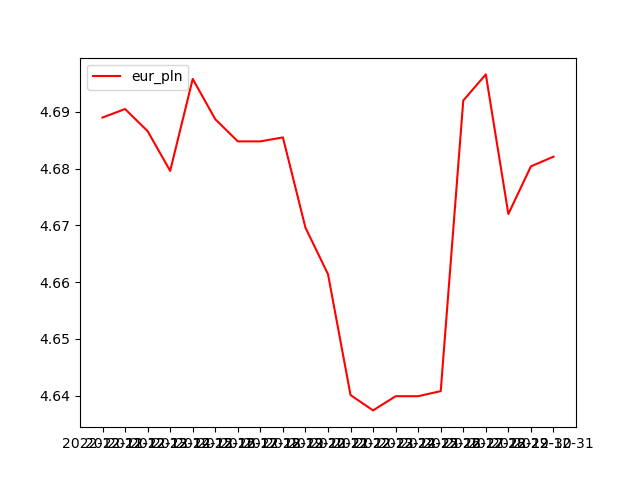
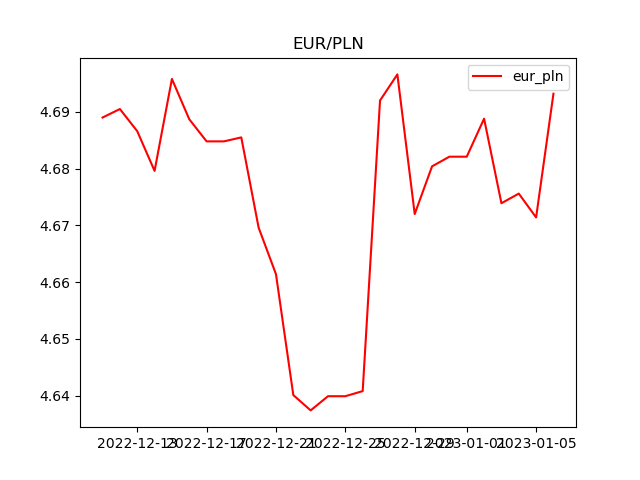
new data

diff --git a/style/style.min.css b/style/style.min.css
@@ -1,1 +1,1 @@
-@font-face{font-family:'Quilon Regular';src:url("./Quilon-Regular.woff") format("woff")}*{margin:0;padding:0;box-sizing:border-box;font-family:'Quilon Regular', Georgia, 'Times New Roman', Times, serif}body{background-color:#7B8485}body .info{width:100%;padding:20px 40px}body .info h1{text-align:center;font-size:22px;line-height:22px;color:#EFF2E8}body .statistic-page{padding:20px 40px;height:100%;width:100%;display:flex;flex-direction:column;background-color:#7B8485}body .statistic-page .row.title-checkbox{opacity:.3;padding:30px 0}body .statistic-page .row.title-checkbox h2{font-size:20px;color:#EFF2E8}body .statistic-page .row.title-radio form{display:flex;flex-direction:column}body .statistic-page .row.charts{height:100%}body .statistic-page .row.charts .chart-wrapper{max-height:0;overflow:hidden;transition:all 0.5s ease-in-out;text-align:center}body .statistic-page .row.charts .chart-wrapper img{height:100%;width:100%}body .credits{position:fixed;left:0;bottom:0;width:100%;padding:20px 40px;text-align:right;color:#F4F0F1;background-color:#7B8485}@keyframes loaded{0%{width:0%;border-radius:0 30px 30px 0}25%{width:25%;border-radius:0 30px 30px 0}50%{width:50%;border-radius:0 30px 30px 0}75%{width:75%;border-radius:0 30px 30px 0}100%{width:100%;border-radius:0}}.chart-group{background-color:#F4F0F1;display:block;margin:10px 0;position:relative}.chart-group .title-label{padding:12px 30px;width:100%;display:block;text-align:left;color:#25242A;cursor:pointer;position:relative;z-index:2;overflow:hidden}.chart-group .title-label:before{content:"";position:absolute;top:0;left:0;right:auto;bottom:0;opacity:0;z-index:-1}.chart-group input:checked ~ label{color:#F4F0F1}.chart-group input:checked ~ label:before{right:0;width:100%;height:100%;background-color:#AC6276;opacity:1;animation:loaded .5s linear}.chart-group input{width:32px;height:32px;order:1;z-index:2;position:absolute;right:30px;top:50%;transform:translateY(-50%);cursor:pointer;visibility:hidden}@media (max-width: 640px){.chart-group{margin:5px 0}.chart-group .title-label{padding:6px 15px}}
+@font-face{font-family:'Quilon Regular';src:url("./Quilon-Regular.woff") format("woff")}*{margin:0;padding:0;box-sizing:border-box;font-family:'Quilon Regular', Georgia, 'Times New Roman', Times, serif}body{background-color:#7B8485}body .info{width:100%;padding:20px 40px}body .info h1{text-align:center;font-size:22px;line-height:22px;color:#EFF2E8}body .statistic-page{padding:20px 40px;height:100%;width:100%;display:flex;flex-direction:column;background-color:#7B8485}body .statistic-page .row.title-checkbox{opacity:.3;padding:30px 0}body .statistic-page .row.title-checkbox h2{font-size:20px;color:#EFF2E8}body .statistic-page .row.title-radio form{display:flex;flex-direction:column}body .statistic-page .row.charts .chart-wrapper{max-height:0;overflow:hidden;transition:all 0.5s ease-in-out;text-align:center}body .statistic-page .row.charts .chart-wrapper img{height:100%;width:100%}body .credits{position:fixed;z-index:5;left:0;bottom:0;width:100%;padding:20px 40px;text-align:right;color:#F4F0F1;background-color:#7B8485}body div.credits-box{position:relative;margin-top:60px}@keyframes loaded{0%{width:0%;border-radius:0 30px 30px 0}25%{width:25%;border-radius:0 30px 30px 0}50%{width:50%;border-radius:0 30px 30px 0}75%{width:75%;border-radius:0 30px 30px 0}100%{width:100%;border-radius:0}}.chart-group{background-color:#F4F0F1;display:block;margin:10px 0;position:relative}.chart-group .title-label{padding:12px 30px;width:100%;display:block;text-align:left;color:#25242A;cursor:pointer;position:relative;z-index:2;overflow:hidden}.chart-group .title-label:before{content:"";position:absolute;top:0;left:0;right:auto;bottom:0;opacity:0;z-index:-1}.chart-group input:checked ~ label{color:#F4F0F1}.chart-group input:checked ~ label:before{right:0;width:100%;height:100%;background-color:#AC6276;opacity:1;animation:loaded .5s linear}.chart-group input{width:32px;height:32px;order:1;z-index:2;position:absolute;right:30px;top:50%;transform:translateY(-50%);cursor:pointer;visibility:hidden}@media (max-width: 640px){.chart-group{margin:5px 0}.chart-group .title-label{padding:6px 15px}}

diff --git a/style/main-style.min.css b/style/main-style.min.css
@@ -1,1 +1,1 @@
-@font-face{font-family:'Quilon Regular';src:url("./Quilon-Regular.woff") format("woff")}*{margin:0;padding:0;box-sizing:border-box;font-family:'Quilon Regular', Georgia, 'Times New Roman', Times, serif}body{background-color:#7B8485}body .info{width:100%;padding:20px 40px}body .info h1{text-align:center;font-size:22px;line-height:22px;color:#EFF2E8}body .statistic-page{padding:20px 40px;height:100%;width:100%;display:flex;flex-direction:column;background-color:#7B8485}body .statistic-page .row.title-checkbox{opacity:.3;padding:30px 0}body .statistic-page .row.title-checkbox h2{font-size:20px;color:#EFF2E8}body .statistic-page .row.title-radio form{display:flex;flex-direction:column}body .statistic-page .row.charts{height:100%}body .statistic-page .row.charts .chart-wrapper{max-height:0;overflow:hidden;transition:all 0.5s ease-in-out;text-align:center}body .statistic-page .row.charts .chart-wrapper img{height:100%;width:100%}body .credits{position:fixed;left:0;bottom:0;width:100%;padding:20px 40px;text-align:right;color:#F4F0F1;background-color:#7B8485}
+@font-face{font-family:'Quilon Regular';src:url("./Quilon-Regular.woff") format("woff")}*{margin:0;padding:0;box-sizing:border-box;font-family:'Quilon Regular', Georgia, 'Times New Roman', Times, serif}body{background-color:#7B8485}body .info{width:100%;padding:20px 40px}body .info h1{text-align:center;font-size:22px;line-height:22px;color:#EFF2E8}body .statistic-page{padding:20px 40px;height:100%;width:100%;display:flex;flex-direction:column;background-color:#7B8485}body .statistic-page .row.title-checkbox{opacity:.3;padding:30px 0}body .statistic-page .row.title-checkbox h2{font-size:20px;color:#EFF2E8}body .statistic-page .row.title-radio form{display:flex;flex-direction:column}body .statistic-page .row.charts .chart-wrapper{max-height:0;overflow:hidden;transition:all 0.5s ease-in-out;text-align:center}body .statistic-page .row.charts .chart-wrapper img{height:100%;width:100%}body .credits{position:fixed;z-index:5;left:0;bottom:0;width:100%;padding:20px 40px;text-align:right;color:#F4F0F1;background-color:#7B8485}body div.credits-box{position:relative;margin-top:60px}

diff --git a/style/main-style.scss b/style/main-style.scss
@@ -52,11 +52,10 @@ body {
             form {
               display: flex;
               flex-direction: column;
-              // import radio-animation
               }
             }
           &.charts {
-            height: 100%;
+            // height: 100%;
             // max-height: 0;
             .chart-wrapper {
               max-height: 0;
@@ -74,6 +73,7 @@ body {
     }
     .credits{
       position: fixed;
+      z-index: 5;
       left: 0;
       bottom: 0;
       width: 100%;
@@ -81,5 +81,9 @@ body {
       text-align: right;
       color: $paragraph;
       background-color: $main-bg-color;
+    }
+    div.credits-box{
+        position: relative;
+        margin-top: 60px;
     }
 }

diff --git a/style/style.css b/style/style.css
@@ -51,10 +51,6 @@ body .statistic-page .row.title-radio form {
   flex-direction: column;
 }
 
-body .statistic-page .row.charts {
-  height: 100%;
-}
-
 body .statistic-page .row.charts .chart-wrapper {
   max-height: 0;
   overflow: hidden;
@@ -69,6 +65,7 @@ body .statistic-page .row.charts .chart-wrapper img {
 
 body .credits {
   position: fixed;
+  z-index: 5;
   left: 0;
   bottom: 0;
   width: 100%;
@@ -76,6 +73,11 @@ body .credits {
   text-align: right;
   color: #F4F0F1;
   background-color: #7B8485;
+}
+
+body div.credits-box {
+  position: relative;
+  margin-top: 60px;
 }
 
 /* variables */

diff --git a/style/main-style.css b/style/main-style.css
@@ -51,10 +51,6 @@ body .statistic-page .row.title-radio form {
   flex-direction: column;
 }
 
-body .statistic-page .row.charts {
-  height: 100%;
-}
-
 body .statistic-page .row.charts .chart-wrapper {
   max-height: 0;
   overflow: hidden;
@@ -69,6 +65,7 @@ body .statistic-page .row.charts .chart-wrapper img {
 
 body .credits {
   position: fixed;
+  z-index: 5;
   left: 0;
   bottom: 0;
   width: 100%;
@@ -76,4 +73,9 @@ body .credits {
   text-align: right;
   color: #F4F0F1;
   background-color: #7B8485;
+}
+
+body div.credits-box {
+  position: relative;
+  margin-top: 60px;
 }

diff --git a/js/script.js b/js/script.js
@@ -3,7 +3,7 @@ const usd_pln = document.querySelector('.statistic-page .title-radio input#usd_p
 const eur_usd = document.querySelector('.statistic-page .title-radio input#eur_usd')
 
 
-document.querySelector('main').style.height = document.querySelector('.statistic-page .charts .eur_pln img').scrollHeight + 'px'
+// document.querySelector('main').style.height = document.querySelector('.statistic-page .charts .eur_pln img').scrollHeight + 'px'
 
 document.querySelectorAll('.statistic-page .title-radio input').forEach(radio => {
     radio.addEventListener('click', () => {

diff --git a/index.html b/index.html
@@ -50,6 +50,7 @@
                 </section>
         </article>
     </main>
+    <div class="credits-box"></div>
     <footer class="credits">
         Gabriela Godek, ZIISS1-1113
     </footer>

diff --git a/style/style.scss b/style/style.scss
@@ -5,7 +5,7 @@
 
 @media (max-width: 640px){
     .chart-group {
-        margin: 5px 0;;
+        margin: 5px 0;
         .title-label{
             padding: 6px 15px;
         }

diff --git a/test-cron/het_users.py b/test-cron/het_users.py
@@ -1,0 +1,36 @@
+import os
+import json
+import requests
+import pandas as pd
+from datetime import datetime
+
+
+def fetch(url: str) -> list:
+    res = requests.get(url)
+    return json.loads(res.content)
+
+
+def process(users: list) -> pd.DataFrame:
+    processed = []
+    for user in users:
+        processed.append({
+            'ID': user['id'],
+            'Name': user['name'],
+            'Username': user['username'],
+            'Email': user['email'],
+            'Phone': user['phone'],
+            'Company': user['company']['name']
+        })
+    return pd.DataFrame(processed)
+
+
+def save(users: pd.DataFrame, path: str) -> None:
+    users.to_csv(path, index=False)
+
+
+if __name__ == '__main__':
+    users = fetch(url='https://jsonplaceholder.typicode.com/users')
+    users = process(users=users)
+    curr_timestamp = int(datetime.timestamp(datetime.now()))
+    path = os.path.abspath(f'Documents/cron-tutorial/output/users_{curr_timestamp}.csv')
+    save(users=users, path=path)

diff --git a/test-cron/get_post.py b/test-cron/get_post.py
@@ -1,0 +1,33 @@
+import os
+import json
+import requests
+import pandas as pd
+from datetime import datetime
+
+
+def fetch(url: str) -> list:
+    res = requests.get(url)
+    return json.loads(res.content)
+
+
+def process(posts: list) -> pd.DataFrame:
+    processed = []
+    for post in posts:
+        processed.append({
+            'ID': post['id'],
+            'UserID': post['userId'],
+            'Title': post['title']
+        })
+    return pd.DataFrame(processed)
+
+
+def save(posts: pd.DataFrame, path: str) -> None:
+    posts.to_csv(path, index=False)
+
+
+if __name__ == '__main__':
+    posts = fetch(url='https://jsonplaceholder.typicode.com/posts')
+    posts = process(posts=posts)
+    curr_timestamp = int(datetime.timestamp(datetime.now()))
+    path = os.path.abspath(f'Documents/cron-tutorial/output/posts_{curr_timestamp}.csv')
+    save(posts=posts, path=path)

diff --git a/data.py b/data.py
@@ -1,6 +1,8 @@
 import json_lines
 import matplotlib.pyplot as plt
+import matplotlib.dates as mdates
 import numpy as np
+from datetime import datetime
 
 eur_pln, usd_pln, eur_usd  = [], [], []
 
@@ -19,12 +21,13 @@ def makeChart(tmp):
     for i in tmp:
         curr_value = float(i['value'].strip().replace(",", "."))
         tmp_value.append(curr_value)
-        tmp_timeline.append(i['data'])
+        tmp_timeline.append(datetime.strptime(i['data'], '%Y-%m-%d'))
+        
     return tmp_value, tmp_timeline
-    
     
 # Plot the charts
 plt.plot(makeChart(eur_pln)[1], makeChart(eur_pln)[0], color='r', label='eur_pln')
+plt.xaxis.set_major_formatter(mdates.DateFormatter('%Y-%b'))
 plt.legend()
 plt.title('EUR/PLN')
 plt.savefig('eur_pln.png')

diff --git a/cron.py b/cron.py
@@ -1,0 +1,10 @@
+from crontab import CronTab
+# cron = CronTab(user='root')
+with CronTab(user='root') as cron:
+    job = cron.new(command='echo hello_world')
+    job.minute.every(1)
+print('cron.write() was just executed')
+# job = cron.new(command='python data.py')
+# job.hour.every(24)
+# job.minute.every(5)
+cron.write()
